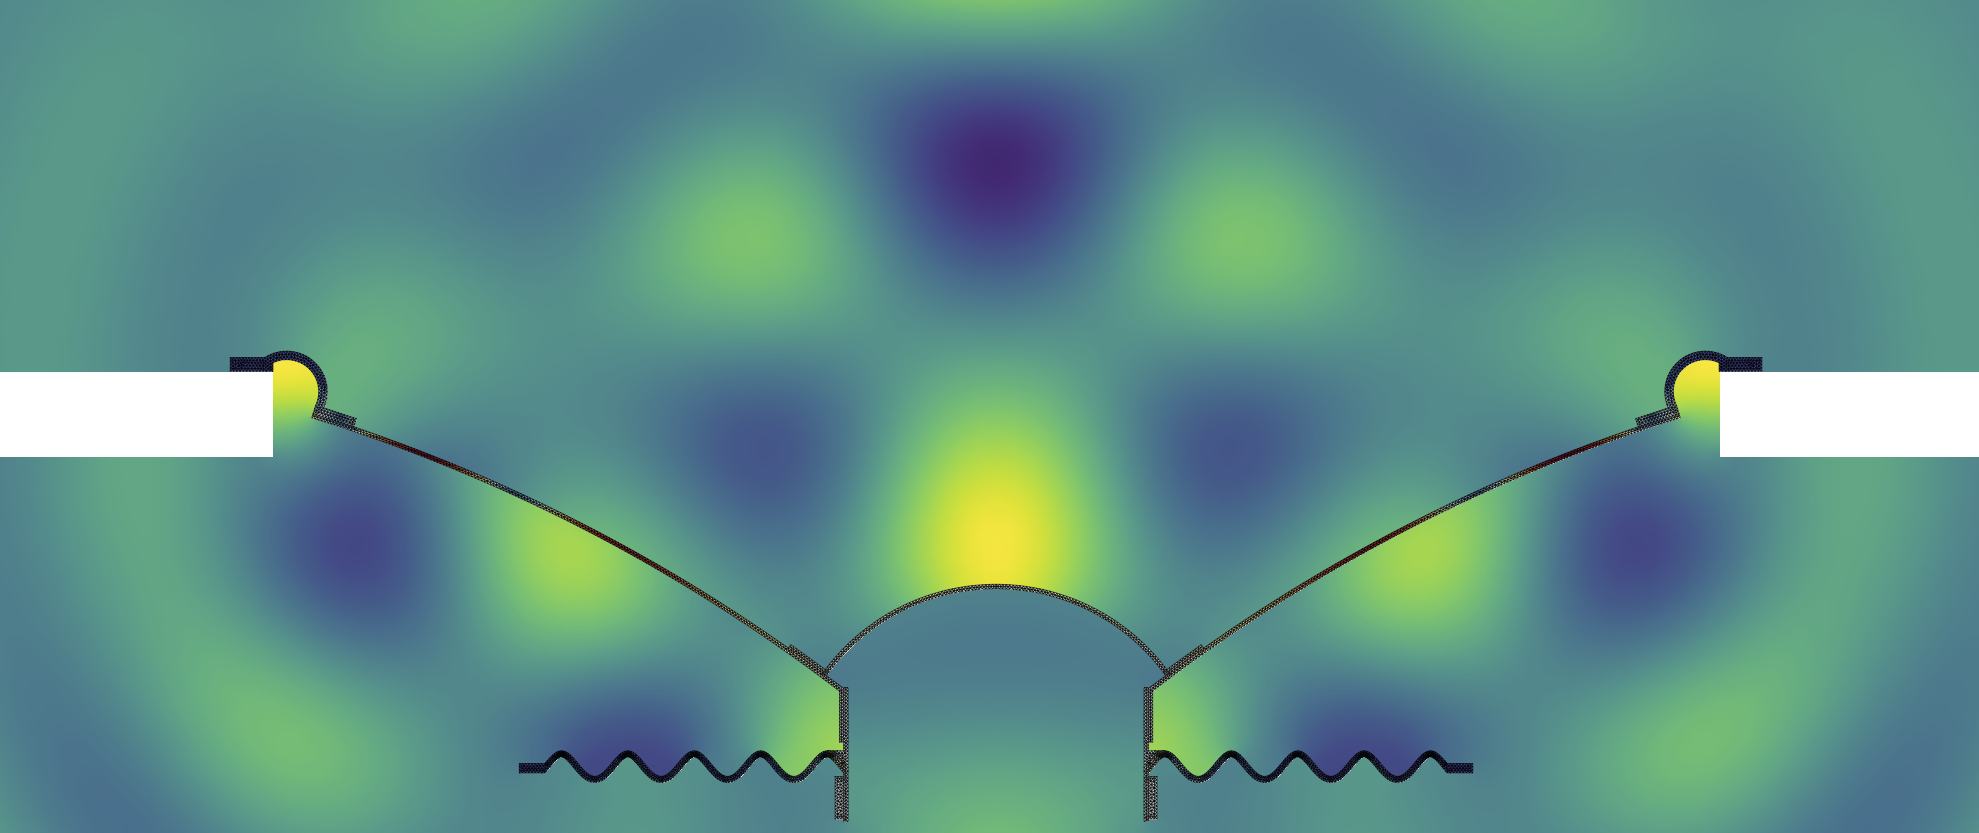
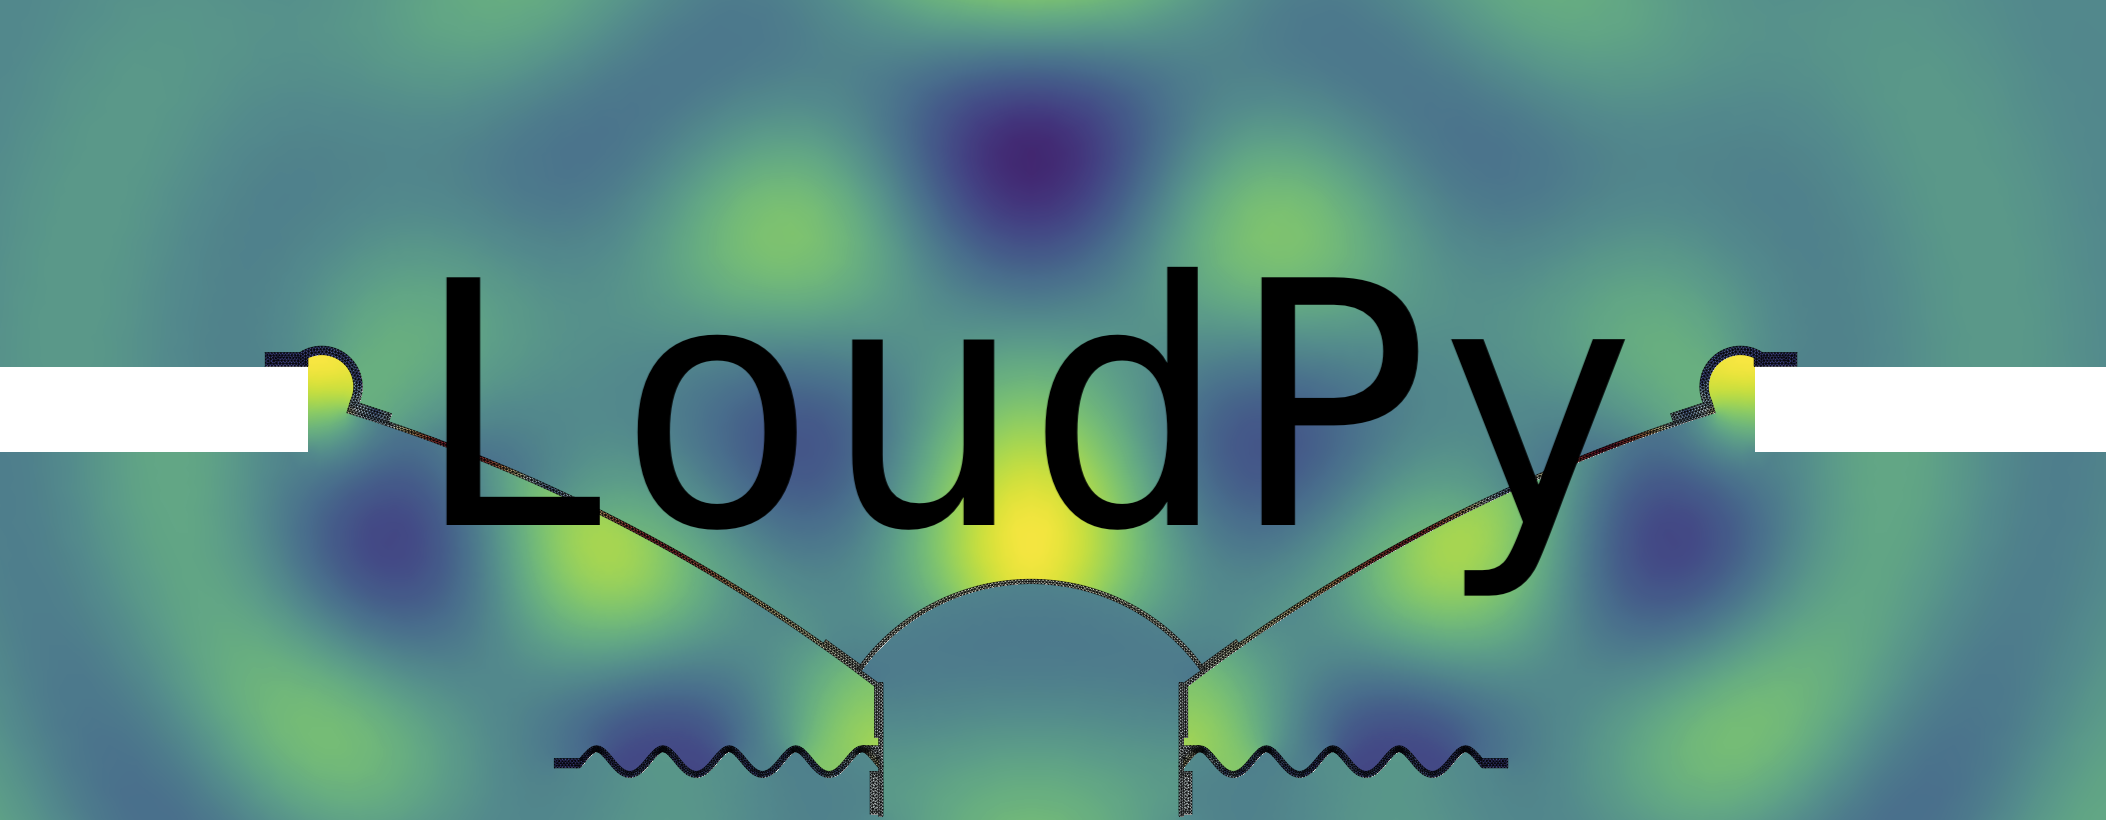
_

diff --git a/README.md b/README.md
@@ -1,9 +1,10 @@
-# LoudPy
-
-LoudPy is an open-source Python solver dedicated to loudspeaker finite element simulation,
-released under the [GPL-3.0 license](https://www.gnu.org/licenses/gpl-3.0.html).
 
 ![description](examples/Field_Response_8970Hz_Symmetric_Clean.png)
+
+# LoudPy
+
+LoudPy is an open-source Python API dedicated to loudspeaker finite element simulation,
+released under the [GPL-3.0 license](https://www.gnu.org/licenses/gpl-3.0.html).
 
 
 ## Overview